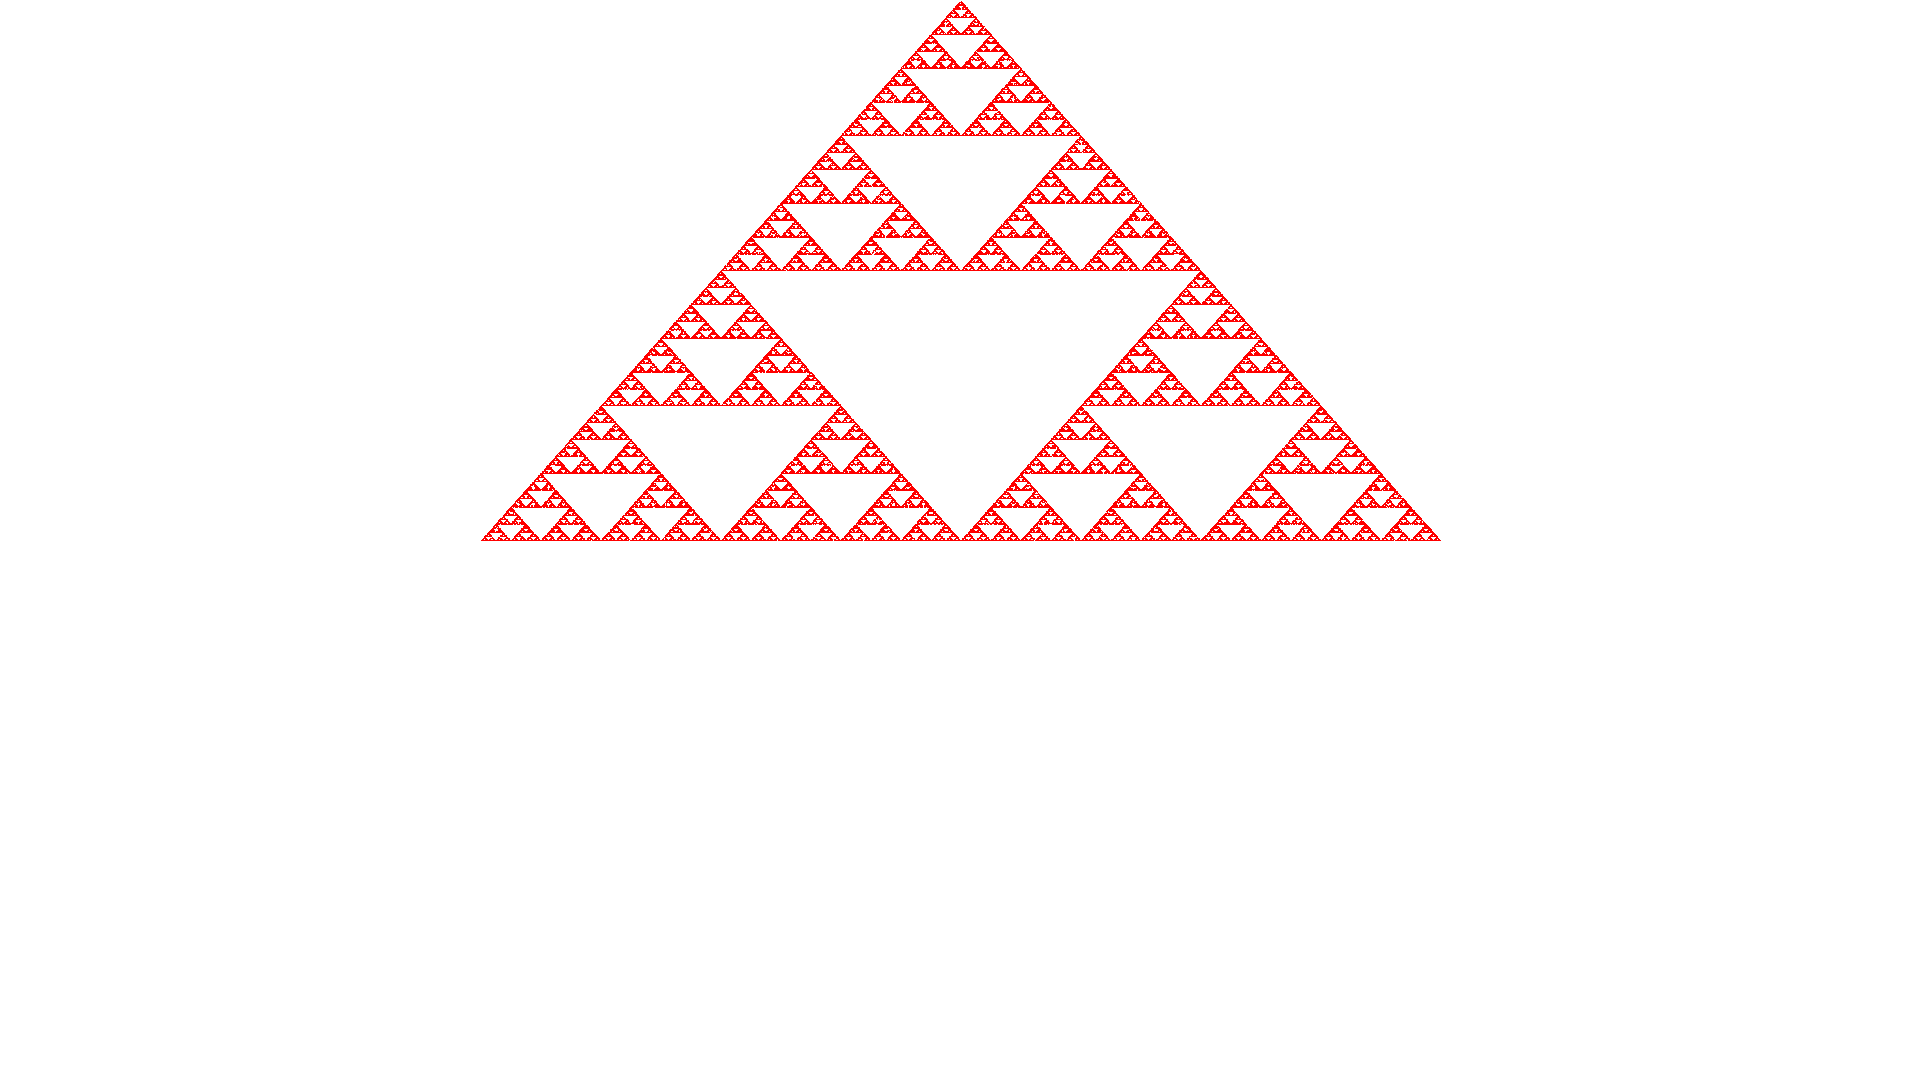
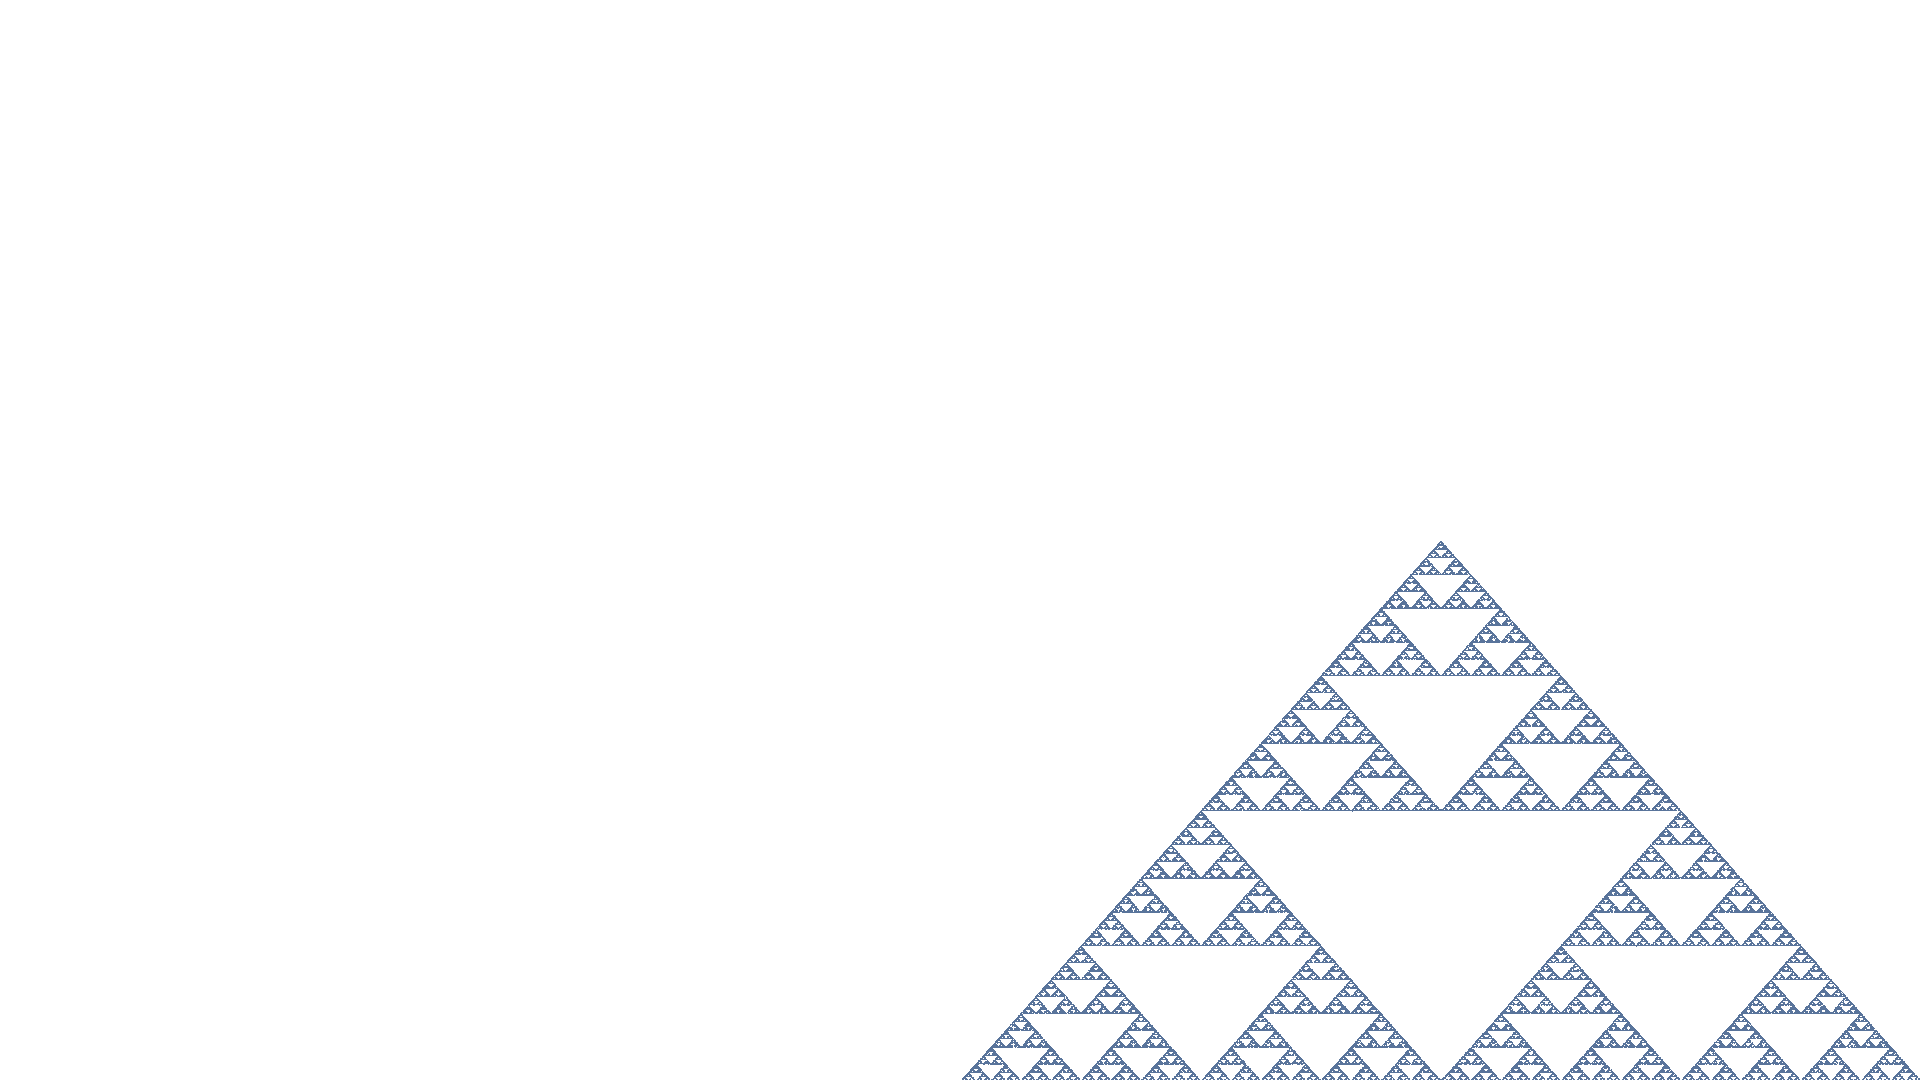
Ispravljena greska

Changed region(s): [[0.25, 0.0, 1.0, 1.0]]

diff --git a/src/app/manager/worker/FractalWorker.java b/src/app/manager/worker/FractalWorker.java
@@ -10,6 +10,7 @@ import javax.imageio.ImageIO;
 import java.awt.*;
 import java.awt.image.BufferedImage;
 import java.io.File;
+import java.io.FileReader;
 import java.io.IOException;
 import java.nio.file.Files;
 import java.nio.file.Path;
@@ -88,37 +89,31 @@ public class FractalWorker implements Runnable, Cancellable {
     @Override
     public void stop() {
         active.set(false);
-        testDraw(imagePath);
+        try {
+
+
+            testDraw(imagePath);
+
+
+        } catch (Exception e) {
+            errorLog("testDraw exception",e);
+        }
     }
 
 
-    public void testDraw(String path){
+    public void testDraw(String path) throws Exception{
 
-        BufferedImage image = new BufferedImage(activeJob.getJob().getW(), activeJob.getJob().getH(), BufferedImage.TYPE_INT_ARGB);
-
-        synchronized (AppConfig.getImageWriteLock()) {
-
-            boolean exists = Files.exists(Paths.get(path));
-
-
-            if (exists) {
-                try {
-
-                    image = ImageIO.read(new File(path));
-
-
-                } catch (IOException e) {
-                    AppConfig.timestampedErrorPrint("Could not read image");
-                    AppConfig.timestampedErrorPrint(e.toString());
-                }
-            }
+            BufferedImage image = new BufferedImage(activeJob.getJob().getW(), activeJob.getJob().getH(), BufferedImage.TYPE_INT_ARGB);
 
 
 
-            final Graphics2D graphics2D = image.createGraphics();
+            final Graphics2D graphics2D = (Graphics2D) image.getGraphics();
             graphics2D.setPaint(Color.WHITE);
             graphics2D.fillRect(0, 0, activeJob.getJob().getW(), activeJob.getJob().getH());
-            graphics2D.setPaint(Color.RED);
+
+
+            Color randColor = new Color((int)(Math.random() * 0x1000000));
+            graphics2D.setPaint(randColor);
             for (Dot d : filledDotList) {
                 graphics2D.drawOval(d.getX(), d.getY(), 1, 1);
             }
@@ -127,18 +122,28 @@ public class FractalWorker implements Runnable, Cancellable {
             graphics2D.dispose();
 
 
-
             try {
                 ImageIO.write(image, "png", new File(path));
+
             } catch (IOException e) {
                 throw new RuntimeException(e);
             }
 
             AppConfig.timestampedStandardPrint("Done drawing: " + activeJob.getJob().getName() +" with dots:"+activeJob.getSection().getDots().values());
 
-        }
     }
 
+
+    public void log(String s){
+
+        AppConfig.timestampedStandardPrint("[Fractal Worker]: "+s);
+    }
+
+    public void errorLog(String s, Exception e){
+
+        AppConfig.timestampedErrorPrint("[Fractal Worker]: "+s);
+        AppConfig.timestampedErrorPrint("[Fractal Worker]: "+e.toString());
+    }
 
 }
 
